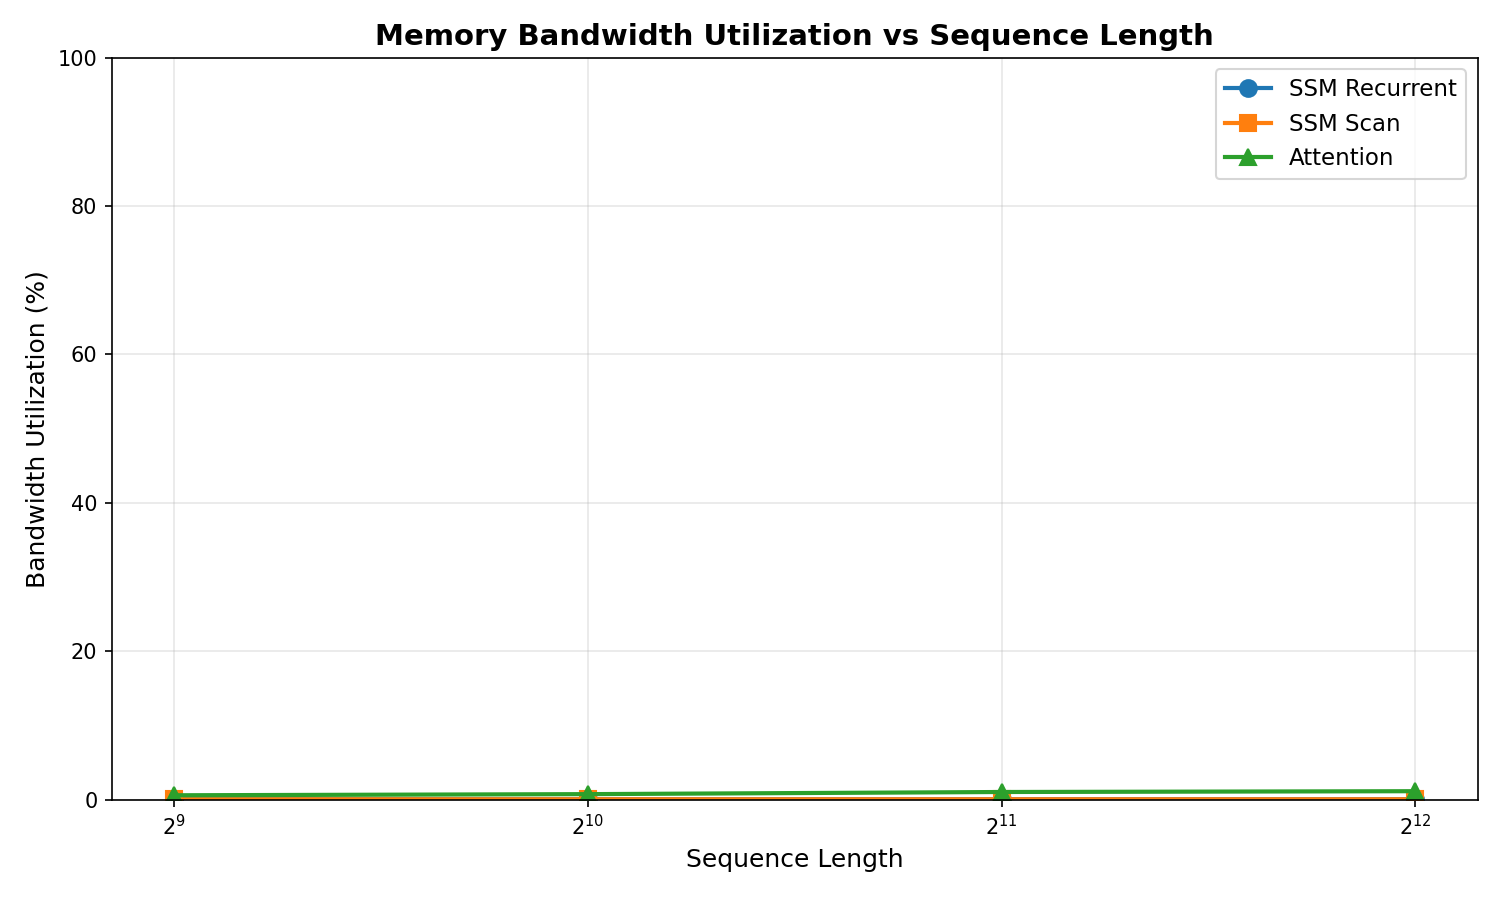
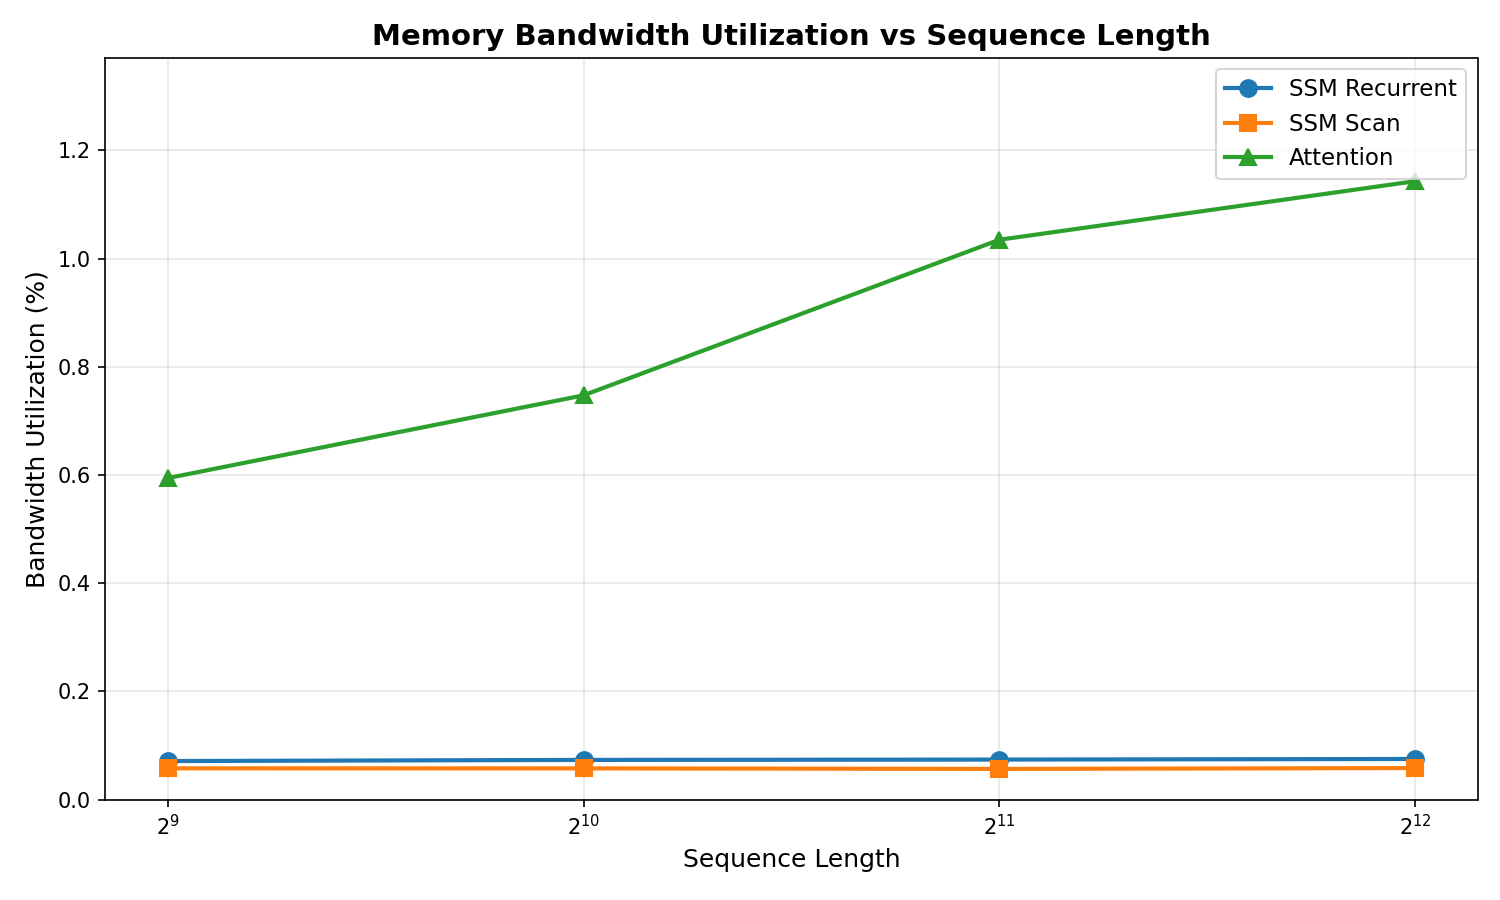
docs: add results schema and update citation author

diff --git a/profiling/visualize.py b/profiling/visualize.py
@@ -111,20 +111,25 @@ def plot_bandwidth_utilization(results: Dict, output_path: str = "bandwidth_util
     ssm_rec_avg = [np.mean(ssm_recurrent[s]) for s in seq_lens]
     ssm_scan_avg = [np.mean(ssm_scan[s]) for s in seq_lens]
     attn_avg = [np.mean(attention[s]) for s in seq_lens]
-    
+
+    # Calculate dynamic y-axis max based on data
+    all_values = ssm_rec_avg + ssm_scan_avg + attn_avg
+    y_max = max(all_values) * 1.2  # 20% padding
+    y_max = max(y_max, 1.0)  # At least 1%
+
     # Plot
     plt.figure(figsize=(10, 6))
     plt.plot(seq_lens, ssm_rec_avg, 'o-', label='SSM Recurrent', linewidth=2, markersize=8)
     plt.plot(seq_lens, ssm_scan_avg, 's-', label='SSM Scan', linewidth=2, markersize=8)
     plt.plot(seq_lens, attn_avg, '^-', label='Attention', linewidth=2, markersize=8)
-    
+
     plt.xlabel('Sequence Length', fontsize=12)
     plt.ylabel('Bandwidth Utilization (%)', fontsize=12)
     plt.title('Memory Bandwidth Utilization vs Sequence Length', fontsize=14, fontweight='bold')
     plt.legend(fontsize=11)
     plt.grid(True, alpha=0.3)
     plt.xscale('log', base=2)
-    plt.ylim(0, 100)
+    plt.ylim(0, y_max)
     plt.tight_layout()
     plt.savefig(output_path, dpi=150)
     print(f"Saved bandwidth utilization plot to {output_path}")
@@ -167,20 +172,25 @@ def plot_compute_utilization(results: Dict, output_path: str = "compute_utilizat
     ssm_rec_avg = [np.mean(ssm_recurrent[s]) for s in seq_lens]
     ssm_scan_avg = [np.mean(ssm_scan[s]) for s in seq_lens]
     attn_avg = [np.mean(attention[s]) for s in seq_lens]
-    
+
+    # Calculate dynamic y-axis max based on data
+    all_values = ssm_rec_avg + ssm_scan_avg + attn_avg
+    y_max = max(all_values) * 1.2  # 20% padding
+    y_max = max(y_max, 1.0)  # At least 1%
+
     # Plot
     plt.figure(figsize=(10, 6))
     plt.plot(seq_lens, ssm_rec_avg, 'o-', label='SSM Recurrent', linewidth=2, markersize=8)
     plt.plot(seq_lens, ssm_scan_avg, 's-', label='SSM Scan', linewidth=2, markersize=8)
     plt.plot(seq_lens, attn_avg, '^-', label='Attention', linewidth=2, markersize=8)
-    
+
     plt.xlabel('Sequence Length', fontsize=12)
     plt.ylabel('Compute Utilization (%)', fontsize=12)
     plt.title('Compute Utilization vs Sequence Length', fontsize=14, fontweight='bold')
     plt.legend(fontsize=11)
     plt.grid(True, alpha=0.3)
     plt.xscale('log', base=2)
-    plt.ylim(0, 100)
+    plt.ylim(0, y_max)
     plt.tight_layout()
     plt.savefig(output_path, dpi=150)
     print(f"Saved compute utilization plot to {output_path}")

diff --git a/docs/results-schema.md b/docs/results-schema.md
@@ -1,0 +1,183 @@
+# Results Schema
+
+This document describes the structure of benchmark result files in `profiling/results/`.
+
+## File structure
+
+Each benchmark run produces a directory with this layout:
+
+```
+{gpu}-{platform}-{date}/
+├── metadata.json              # Run metadata and summary
+├── benchmark_results.json     # Raw per-configuration data
+├── benchmark_summary.txt      # Human-readable summary
+└── plots/
+    ├── latency_vs_seq_len.png
+    ├── bandwidth_utilization.png
+    ├── compute_utilization.png
+    └── roofline_model.png
+```
+
+## metadata.json
+
+Top-level metadata for a benchmark run.
+
+```json
+{
+  "run_id": "t4-colab-2026-10-10",
+  "timestamp": "2026-10-10T10:45:06.066986",
+  "platform": {
+    "name": "Google Colab",
+    "gpu": {
+      "name": "Tesla T4",
+      "compute_capability": "7.5",
+      "memory_gb": 15.64,
+      "peak_bandwidth_gb_s": 900,
+      "peak_fp32_tflops": 13.0,
+      "peak_bf16_tflops": 26.0
+    }
+  },
+  "software": {
+    "python": "3.13.15",
+    "pytorch": "2.11.0+cu130",
+    "cuda": "13.0"
+  },
+  "configuration": {
+    "sequence_lengths": [512, 1024, 2048, 4096],
+    "state_dimensions": [64, 128, 256],
+    "input_dim": 256,
+    "output_dim": 256,
+    "dtype": "bf16",
+    "batch_size": 1,
+    "warmup_runs": 10,
+    "benchmark_runs": 100
+  },
+  "summary": {
+    "total_configurations": 36,
+    "models_tested": ["ssm_recurrent", "ssm_scan", "attention"],
+    "avg_ssm_recurrent_latency_ms": 319.4,
+    "avg_ssm_scan_latency_ms": 413.0,
+    "avg_attention_latency_ms": 0.23,
+    "avg_ssm_bandwidth_utilization_pct": 0.06,
+    "avg_attention_bandwidth_utilization_pct": 0.82,
+    "avg_ssm_compute_utilization_pct": 0.01,
+    "avg_attention_compute_utilization_pct": 5.1
+  },
+  "key_findings": "SSM is 100-200x slower than attention...",
+  "files": {
+    "raw_data": "benchmark_results.json",
+    "summary": "benchmark_summary.txt",
+    "plots": {
+      "latency": "plots/latency_vs_seq_len.png",
+      "bandwidth": "plots/bandwidth_utilization.png",
+      "compute": "plots/compute_utilization.png",
+      "roofline": "plots/roofline_model.png"
+    }
+  }
+}
+```
+
+### Fields
+
+| Field | Type | Description |
+|-------|------|-------------|
+| `run_id` | string | Unique identifier: `{gpu}-{platform}-{date}` |
+| `timestamp` | string | ISO 8601 timestamp of when the benchmark ran |
+| `platform.name` | string | Execution platform (Google Colab, Modal, local) |
+| `platform.gpu.*` | object | GPU specifications |
+| `software.*` | object | Software versions (Python, PyTorch, CUDA) |
+| `configuration.*` | object | Benchmark parameters |
+| `summary.*` | object | Aggregated statistics across all configurations |
+| `key_findings` | string | One-line summary of results |
+| `files.*` | object | Pointers to output files |
+
+## benchmark_results.json
+
+Raw per-configuration benchmark data.
+
+```json
+{
+  "metadata": {
+    "timestamp": "2026-10-10T10:45:06.066986",
+    "gpu": {
+      "name": "Tesla T4",
+      "compute_capability": "7.5",
+      "total_memory_gb": 15.637,
+      "memory_bandwidth_gb_s": 900,
+      "fp32_tflops": 13.0,
+      "fp16_tflops": 26.0,
+      "bf16_tflops": 26.0
+    },
+    "python_version": "3.13.15",
+    "torch_version": "2.11.0+cu130",
+    "cuda_version": "13.0"
+  },
+  "results": [
+    {
+      "config": {
+        "seq_len": 512,
+        "batch_size": 1,
+        "state_dim": 64,
+        "input_dim": 256,
+        "output_dim": 256,
+        "dtype": "bf16"
+      },
+      "model_type": "ssm_recurrent",
+      "latency_stats": {
+        "mean_ms": 109.62,
+        "std_ms": 20.67,
+        "min_ms": 92.45,
+        "max_ms": 183.38,
+        "median_ms": 102.72,
+        "p95_ms": 160.57,
+        "p99_ms": 183.38,
+        "runs": 100
+      },
+      "flops": 132120576,
+      "bytes_transferred": 21864576,
+      "arithmetic_intensity": 6.04,
+      "achieved_bandwidth_gb_s": 0.20,
+      "achieved_tflops": 0.0012,
+      "bandwidth_utilization_pct": 0.022,
+      "compute_utilization_pct": 0.0046
+    }
+  ]
+}
+```
+
+### Per-result fields
+
+| Field | Type | Description |
+|-------|------|-------------|
+| `config.seq_len` | int | Sequence length |
+| `config.batch_size` | int | Batch size |
+| `config.state_dim` | int | SSM state dimension |
+| `config.input_dim` | int | Input dimension |
+| `config.output_dim` | int | Output dimension |
+| `config.dtype` | string | Data type (bf16, fp16, fp32) |
+| `model_type` | string | `ssm_recurrent`, `ssm_scan`, or `attention` |
+| `latency_stats.*` | object | Latency statistics over 100 runs |
+| `flops` | int | Total FLOPS for this configuration |
+| `bytes_transferred` | int | Total bytes moved (weights, activations, state) |
+| `arithmetic_intensity` | float | FLOP/byte ratio |
+| `achieved_bandwidth_gb_s` | float | Achieved memory bandwidth |
+| `achieved_tflops` | float | Achieved compute performance |
+| `bandwidth_utilization_pct` | float | Bandwidth utilization as % of peak |
+| `compute_utilization_pct` | float | Compute utilization as % of peak |
+
+## Naming convention
+
+Result directories follow `{gpu}-{platform}-{YYYY-MM-DD}`:
+
+- `gpu`: lowercase model name (t4, a100, h100)
+- `platform`: execution platform (colab, modal, local)
+- `date`: ISO 8601 date
+
+Examples:
+- `t4-colab-2026-10-10`
+- `a100-modal-2026-10-10`
+- `h100-local-2026-11-15`
+
+## Immutability
+
+Once committed, results are never modified. If a bug is found, a new result set is created with a corrected run.

diff --git a/README.md b/README.md
@@ -176,7 +176,7 @@ Commit messages: `type: summary` (feat, fix, docs, test, chore). No secrets.
 
 ```bibtex
 @software{ssm_bench,
-  author  = {Continuum Computing},
+  author  = {Lincoln Angufibo},
   title   = {ssm-bench: reproducible benchmarks for state-space, attention and hybrid sequence models},
   year    = {2026},
   url     = {https://github.com/Continuum-Computiing/ssm-bench}
